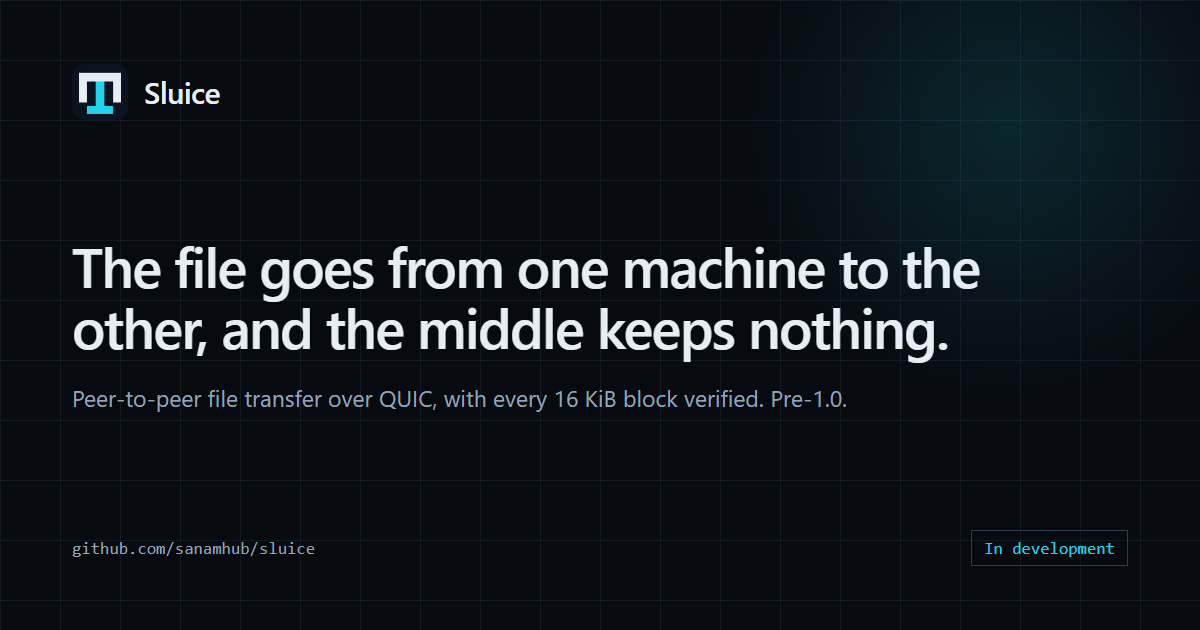
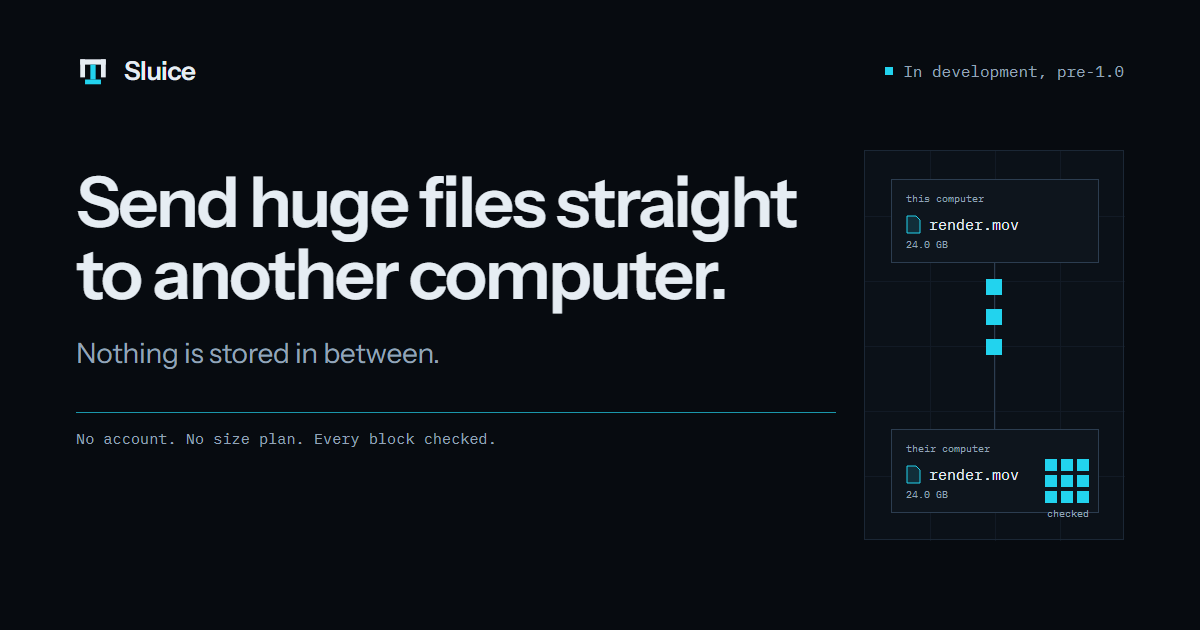
feat(site): point the page at its live address
The canonical link and the share card still named sluice.example. They now name the Workers address the page is served from. The share card carries the new hero line, and its alt text does too. robots.txt has no host in it, and there is no sitemap to update.

diff --git a/site/src/site.ts b/site/src/site.ts
@@ -1,4 +1,4 @@
 // The site's own address. Workers Dev serves the files under a workers.dev host until a domain is
 // pointed at the Worker; canonical links, the Open Graph URL and robots.txt read this, so a later
 // change sets it once here.
-export const SITE_URL = "https://sluice.example";
+export const SITE_URL = "https://sluice.sanampakuwal.workers.dev";
